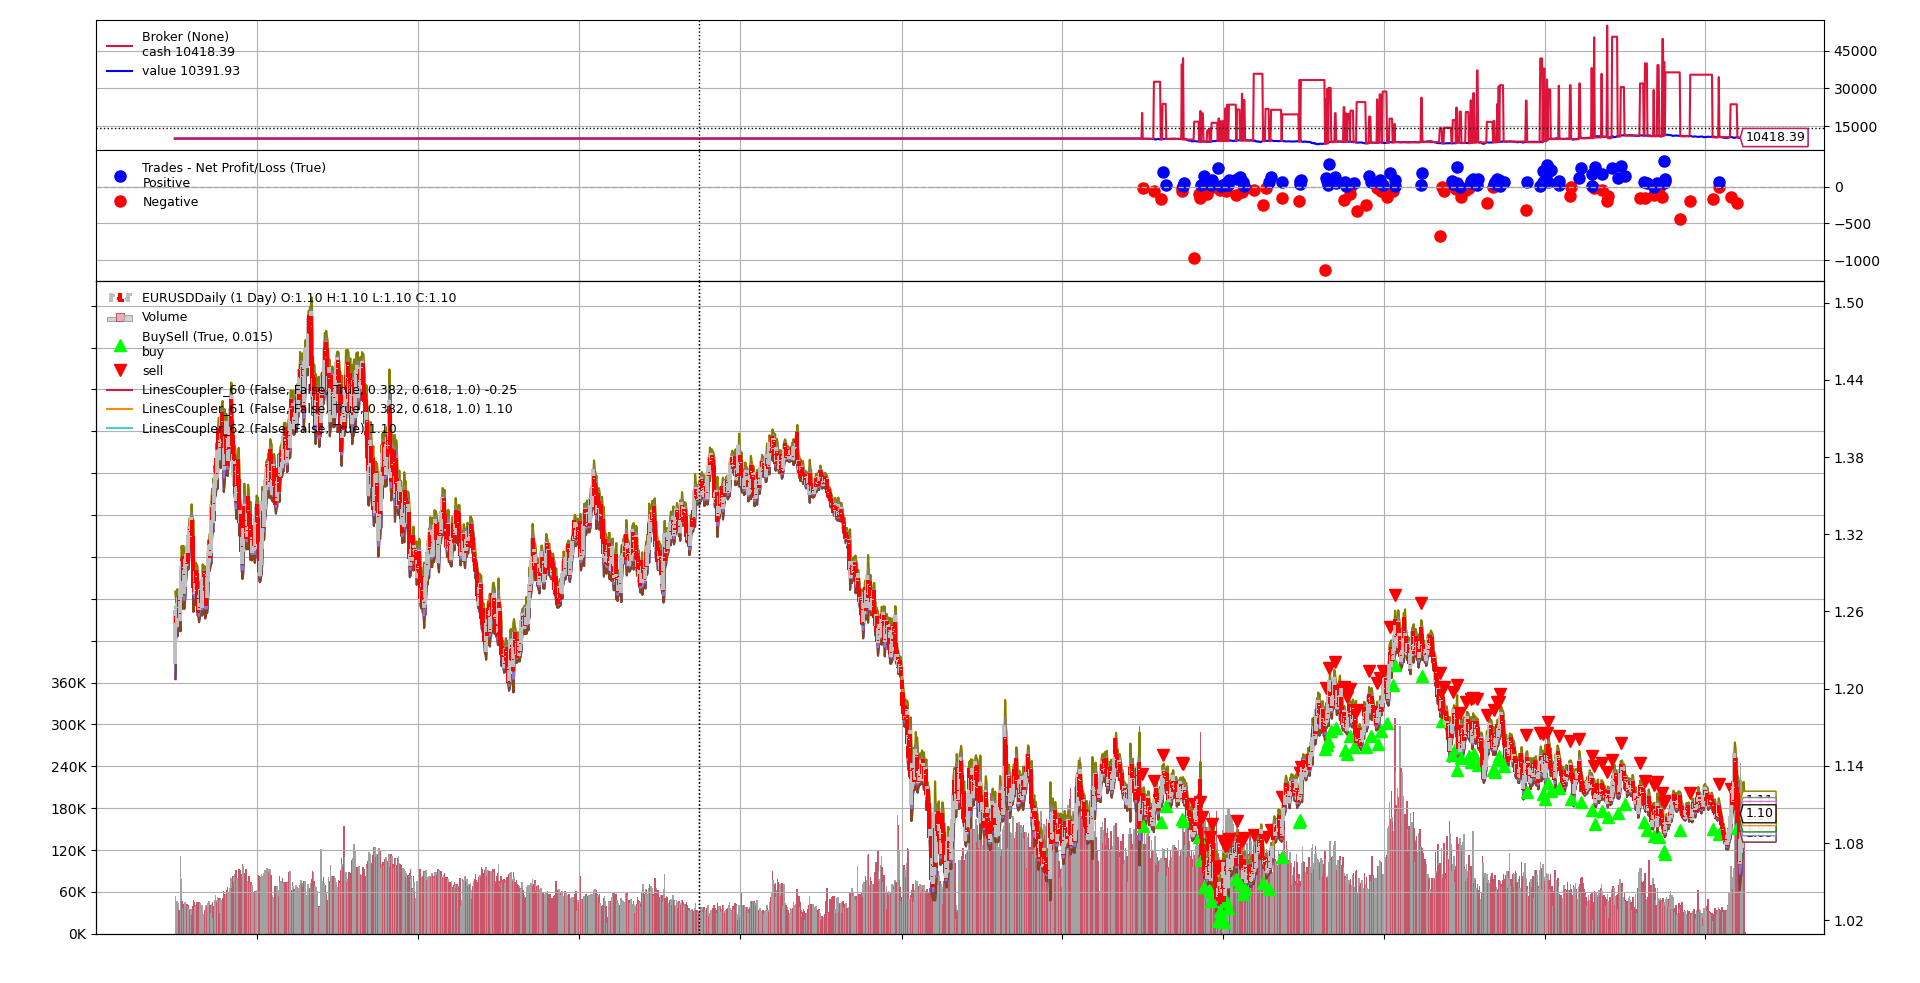
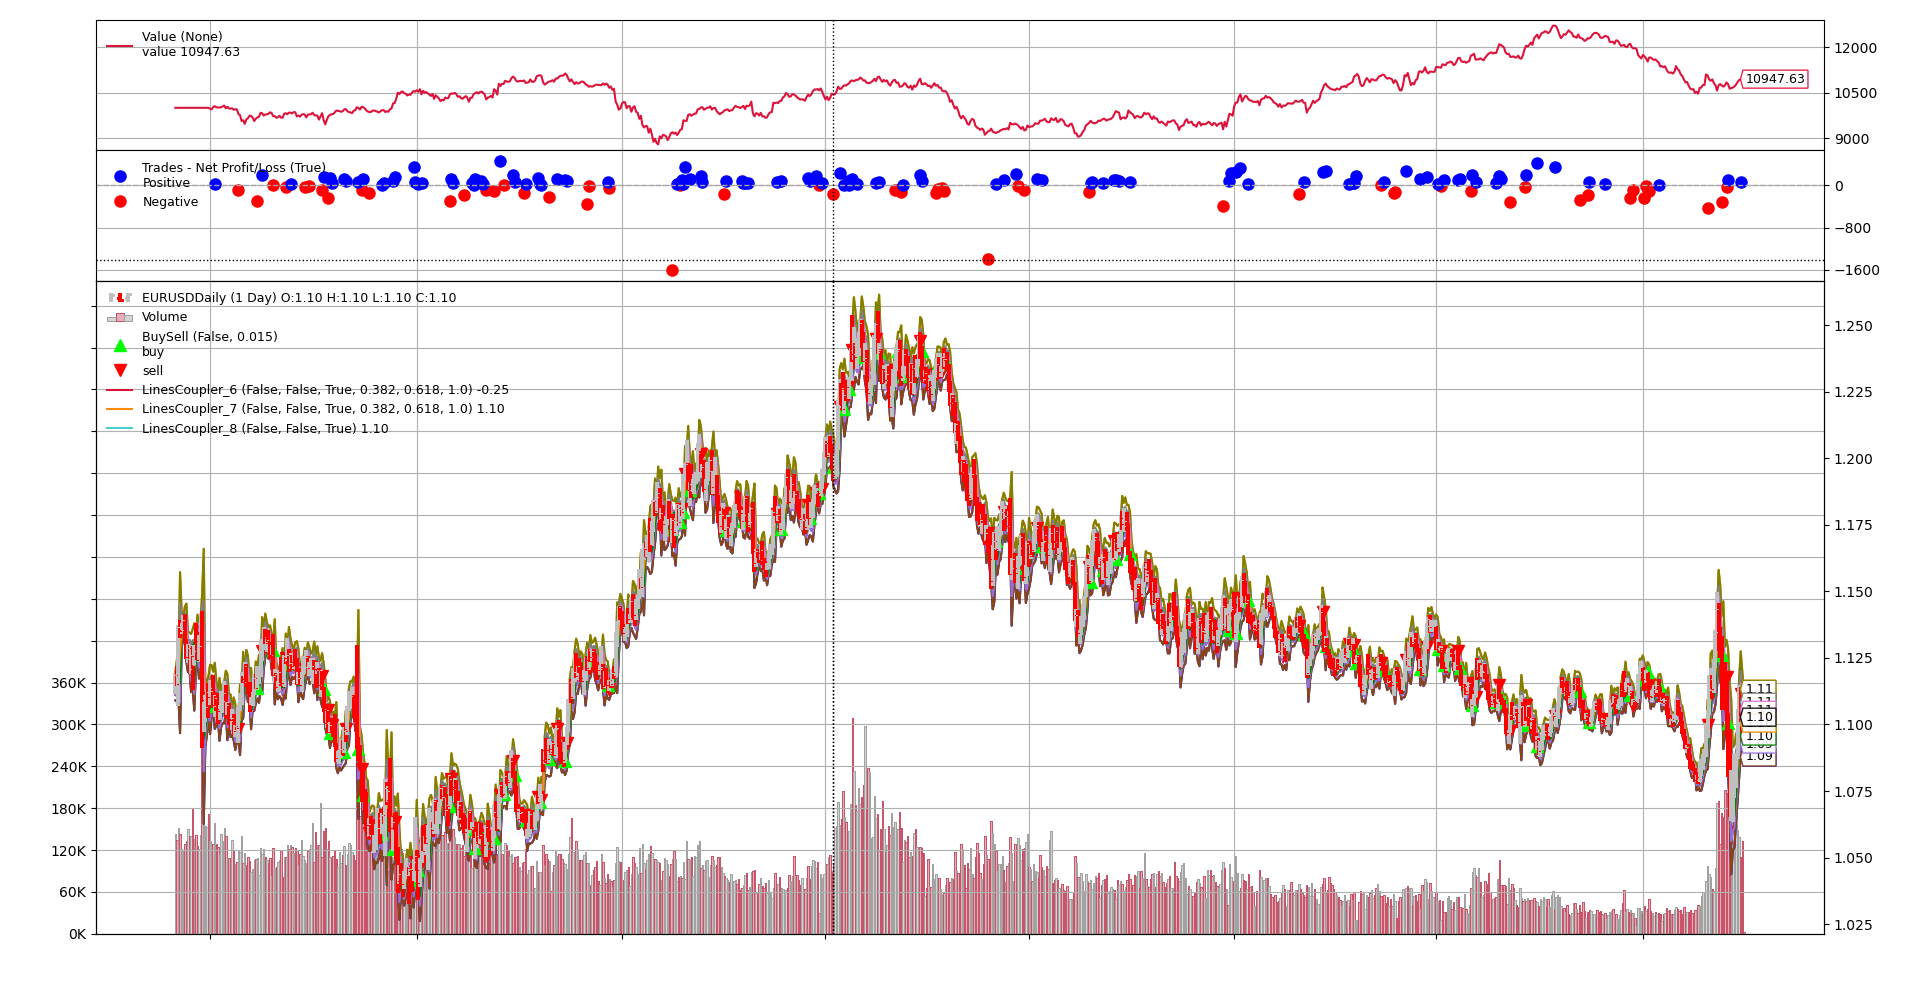
Improves graph printing

diff --git a/code/utils.py b/code/utils.py
@@ -19,7 +19,7 @@ def runBackTest(TESTS, NUMBER_OF_RUNS, TestStrategy, MySizer, DEFAULT_DT_FORMAT,
 
         for runNumber in range(NUMBER_OF_RUNS):
             TestStrategy.clf = test["clf"]
-            cerebro = bt.Cerebro(stdstats=True)
+            cerebro = bt.Cerebro(stdstats=False)
             cerebro.addstrategy(TestStrategy)
             cerebro.addsizer(MySizer)
             data = bt.feeds.GenericCSVData(
@@ -35,6 +35,10 @@ def runBackTest(TESTS, NUMBER_OF_RUNS, TestStrategy, MySizer, DEFAULT_DT_FORMAT,
         
             #https://www.backtrader.com/docu/commission-schemes/commission-schemes/
             cerebro.broker.setcommission(commission=0, margin=False, mult=1.0, leverage=100) 
+
+            cerebro.addobserver(bt.observers.Value)
+            cerebro.addobserver(bt.observers.Trades)
+            cerebro.addobserver(bt.observers.BuySell)
 
             results = cerebro.run()
 
